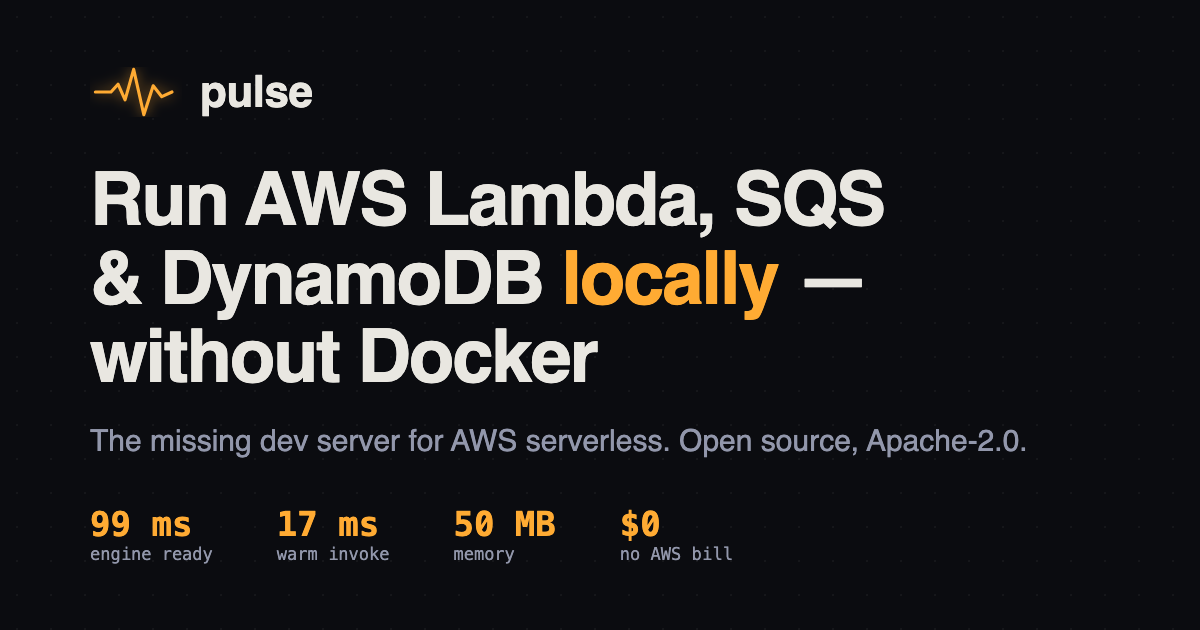
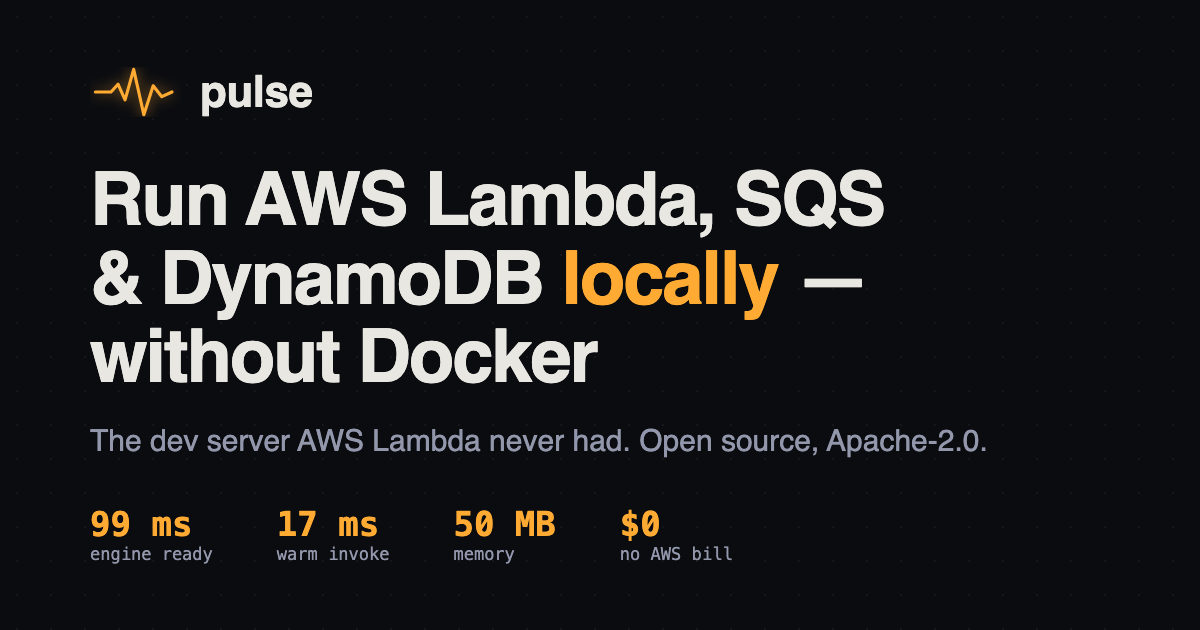
brand: The Sentence — "The dev server AWS Lambda never had."
One line, everywhere, verbatim: hero tagline, footer, og/twitter
descriptions, re-rendered og/twitter card images, and the CTA now closes
the loop — "Every modern framework has a dev server. AWS Lambda finally
has one." Replaces "The missing dev server for AWS serverless" (kept as
concept in body copy; H1 keywords unchanged). Companion edits in the
pulse repo: README wordmark line + brew cask description.

Changed region(s): [[0.1233, 0.6635, 0.8633, 0.7238]]

diff --git a/app/page.tsx b/app/page.tsx
@@ -123,7 +123,7 @@ export default function Page() {
               Run AWS Lambda, SQS and DynamoDB <em className="not-italic text-amber">locally</em> — without Docker
             </h1>
             <p className="mt-4 text-[clamp(16px,2.4vw,21px)] font-medium text-fg/90">
-              The missing dev server for AWS serverless.
+              The dev server AWS Lambda never had.
             </p>
             <PulseLine crop="mid" className="mx-auto mt-5 h-10 w-[min(400px,78%)]" />
           </div>
@@ -846,7 +846,7 @@ export default function Page() {
                 </h2>
                 <p className="mx-auto mt-4 max-w-[44ch] text-balance text-[15.5px] leading-relaxed text-dim">
                   Every modern framework has a dev server.
-                  <span className="block font-medium text-fg">AWS serverless deserves one too.</span>
+                  <span className="block font-medium text-fg">AWS Lambda finally has one.</span>
                 </p>
                 <div className="mt-8 flex justify-center">
                   <InstallTabs location="cta" />
@@ -880,7 +880,7 @@ export default function Page() {
               pulse
             </span>
             <p className="mt-3.5 max-w-[34ch] text-sm leading-relaxed text-dim">
-              The missing dev server for AWS serverless. Run the whole app locally, in milliseconds.
+              The dev server AWS Lambda never had. Run the whole app locally, in milliseconds.
             </p>
             <TrackLink href={`${GH}/releases`} event="outbound" props={{ target: "releases-footer" }} className="chip mt-4">
               v0.1.0 · changelog

diff --git a/app/layout.tsx b/app/layout.tsx
@@ -30,7 +30,7 @@ export const metadata: Metadata = {
   openGraph: {
     title: "pulse — Run AWS Lambda, SQS & DynamoDB Locally, No Docker",
     description:
-      "The missing dev server for AWS serverless: hot reload, real SQS queues, local DynamoDB, event replay. No Docker, no AWS account.",
+      "The dev server AWS Lambda never had: hot reload, real SQS queues, local DynamoDB, event replay. No Docker, no AWS account.",
     url: SITE,
     siteName: "pulse",
     type: "website",
@@ -39,7 +39,7 @@ export const metadata: Metadata = {
     card: "summary_large_image",
     title: "pulse — Run AWS Lambda, SQS & DynamoDB Locally, No Docker",
     description:
-      "The missing dev server for AWS serverless: hot reload, real SQS queues, local DynamoDB, event replay. No Docker, no AWS account.",
+      "The dev server AWS Lambda never had: hot reload, real SQS queues, local DynamoDB, event replay. No Docker, no AWS account.",
   },
   robots: { index: true, follow: true },
 };
